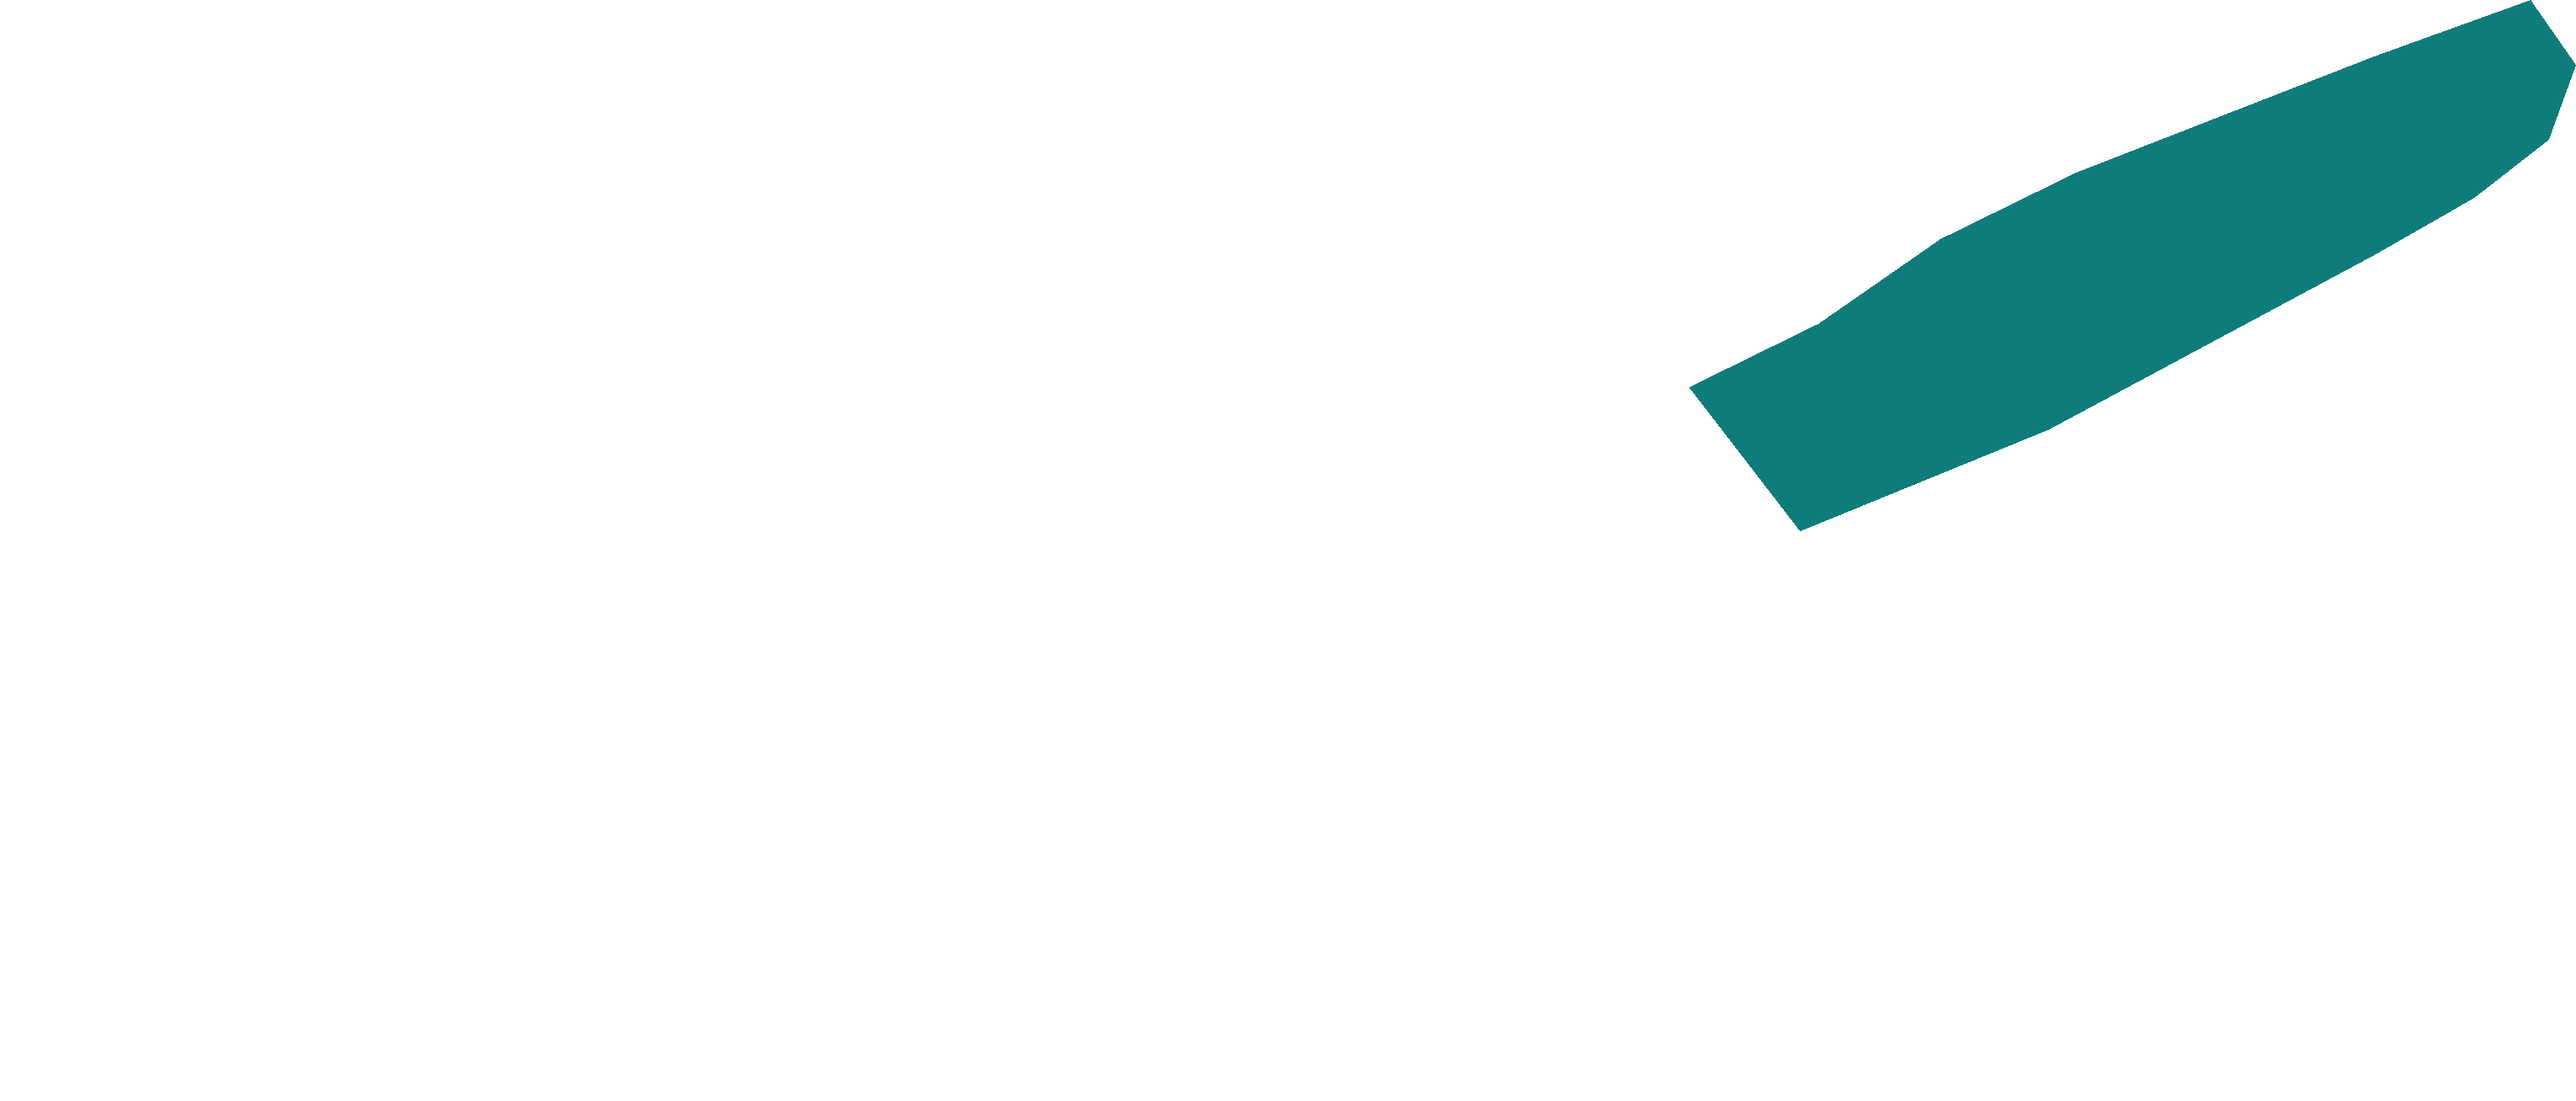
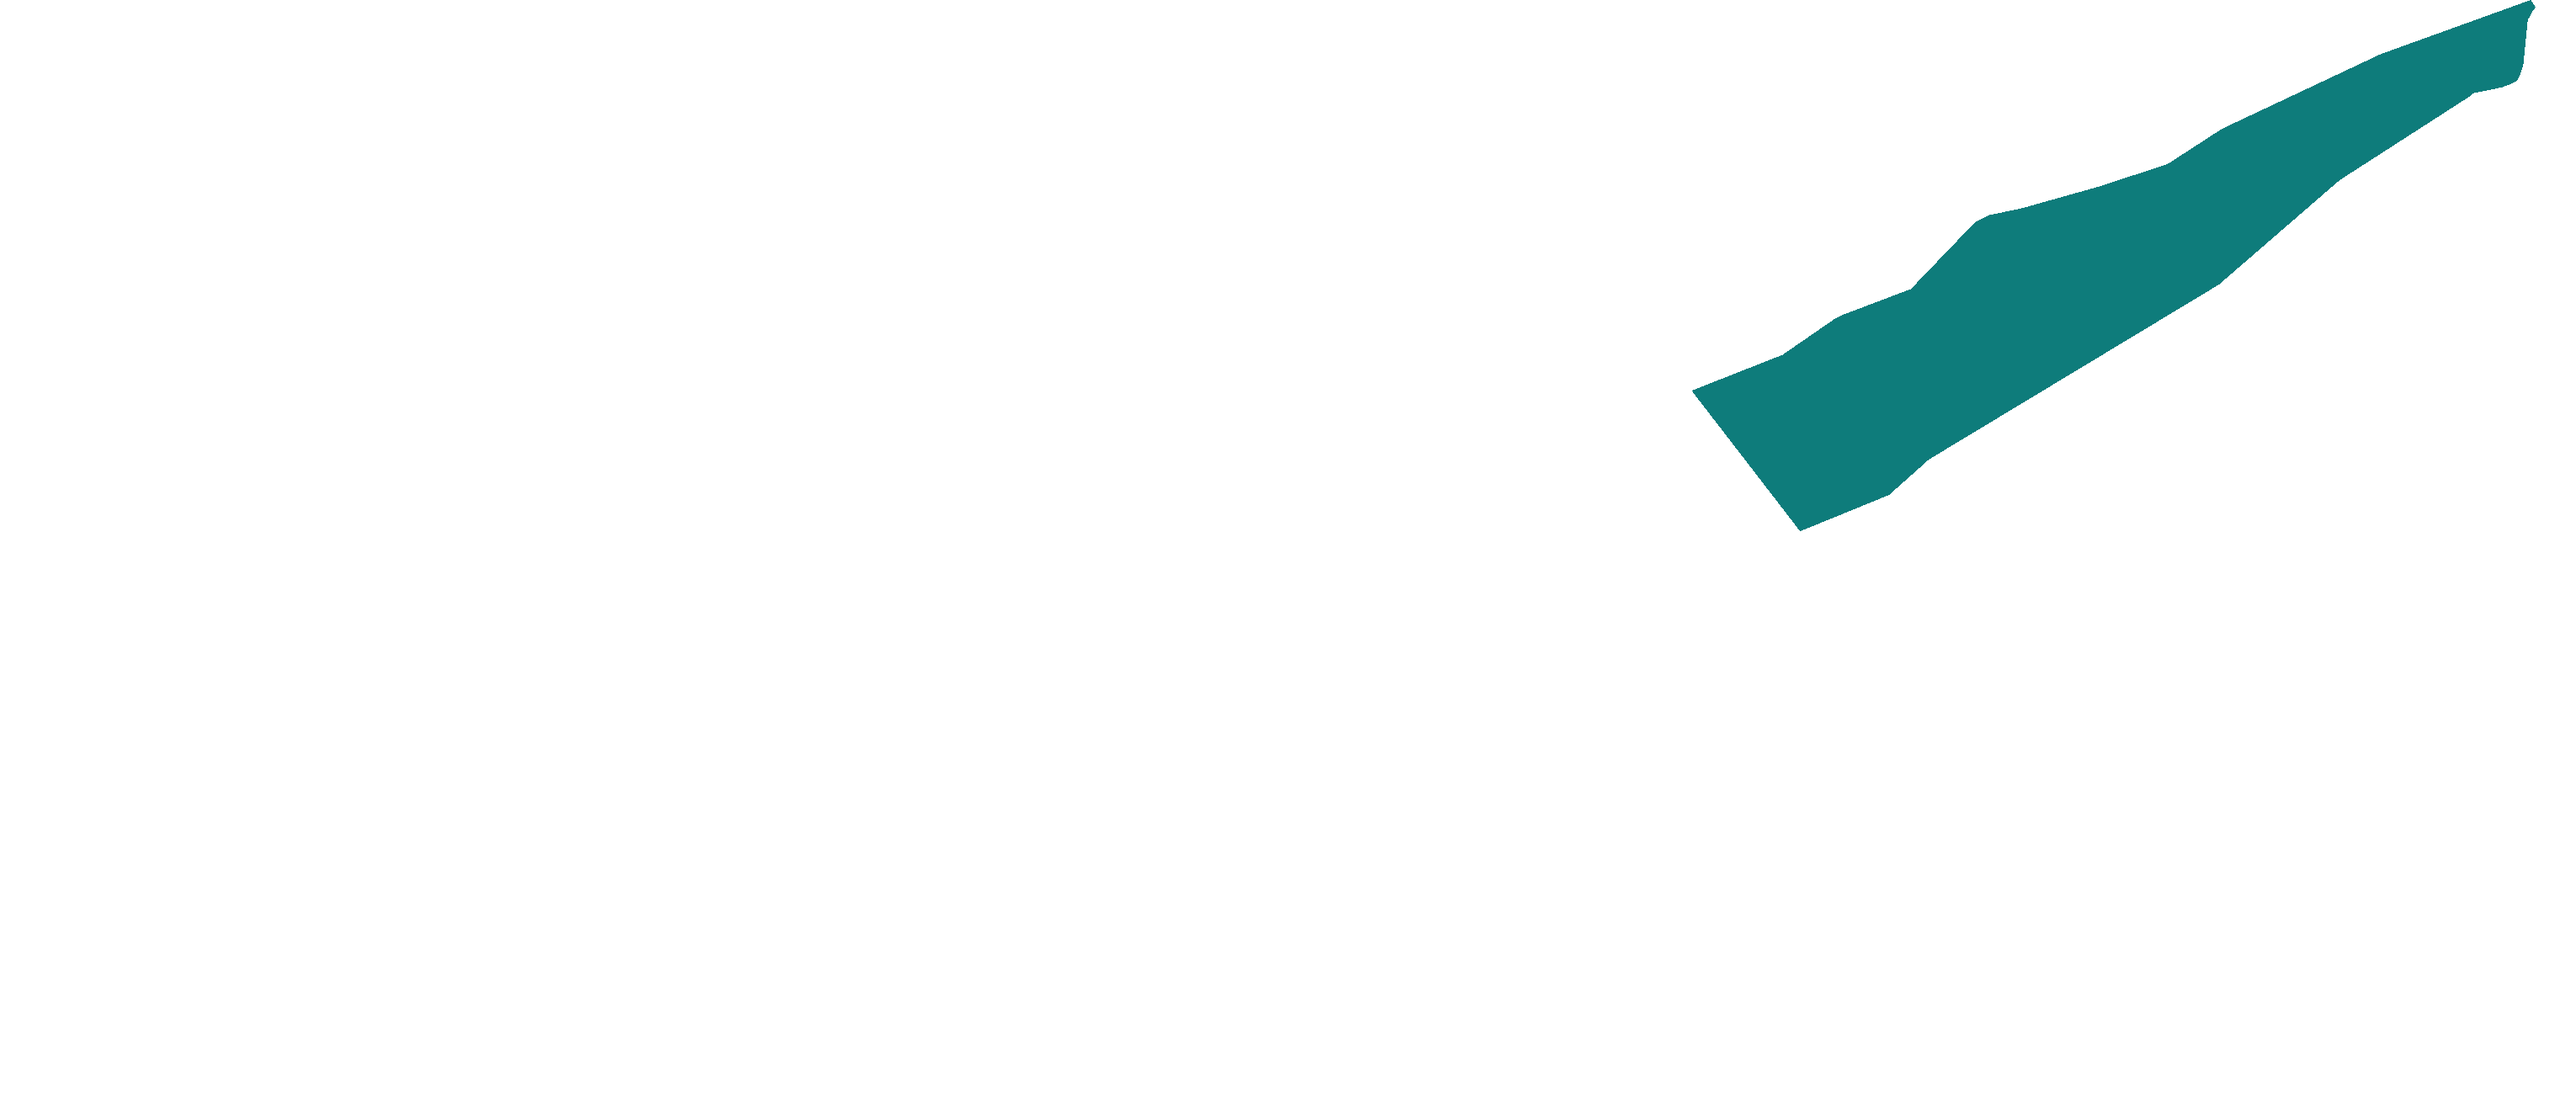
feat(towing): render-only coastline clip — TRNC_OUTLINE untouched
TRNC_OUTLINE is a gate, not a drawing. Its own header says the sea vertices are
deliberately slack because nobody opens the app in the water; rendered directly
that slack became a fat, wrong-looking coastline.

A SECOND outline now exists purely for drawing: Natural Earth 1:10m admin-0,
public domain, in scripts/data/. It can only SUBTRACT sea pixels and never
assigns a region. TRNC_OUTLINE is not tightened, reordered or re-vertexed —
resolveRegion and City Welcome are bit-identical. The coastline is build-script
input and is never imported by the app, so it adds nothing to the bundle.

Both Sovereign Base Areas are included in the extract and the file says why:
filtering the source on the name "Cyprus" drops Dhekelia, which puts BEYARMUDU
in the sea. The all-anchors-inside assertion caught that, not inspection.

DILATION_M = 509. Natural Earth cuts slightly inland at harbours and three real
Girne waterfront anchors sit outside it, worst at 300 m. Dilating the island
mask before clipping keeps every settlement, with 209 m of measured headroom.
The value, unit, reason and margin are in the header, and the generator prints
the measured numbers every run so the comment cannot go stale.

Four assertions, all fatal (verified: exit 1): no pixel gains a region, no pixel
switches region, a 22,240-cell land sample never swaps, all 142 anchors inside.

Assertion 3 initially reported 40 switches. Those were samples sitting one side
[…]

diff --git a/constants/towing.js b/constants/towing.js
@@ -72,9 +72,9 @@ export const MAP_LABEL_ANCHORS = {
   kyrenia:    { x:  237, y: 255 },
   famagusta:  { x:  534, y: 348 },
   morphou:    { x:  174, y: 317 },
-  iskele:     { x:  633, y: 245 },
-  lefke:      { x:   66, y: 337 },
-  karpaz:     { x:  800, y: 127 },
+  iskele:     { x:  661, y: 195 },
+  lefke:      { x:   36, y: 370 },
+  karpaz:     { x:  722, y: 170 },
 }
 
 // ─── The drift guard the whole map design rests on ──────────────────────────
